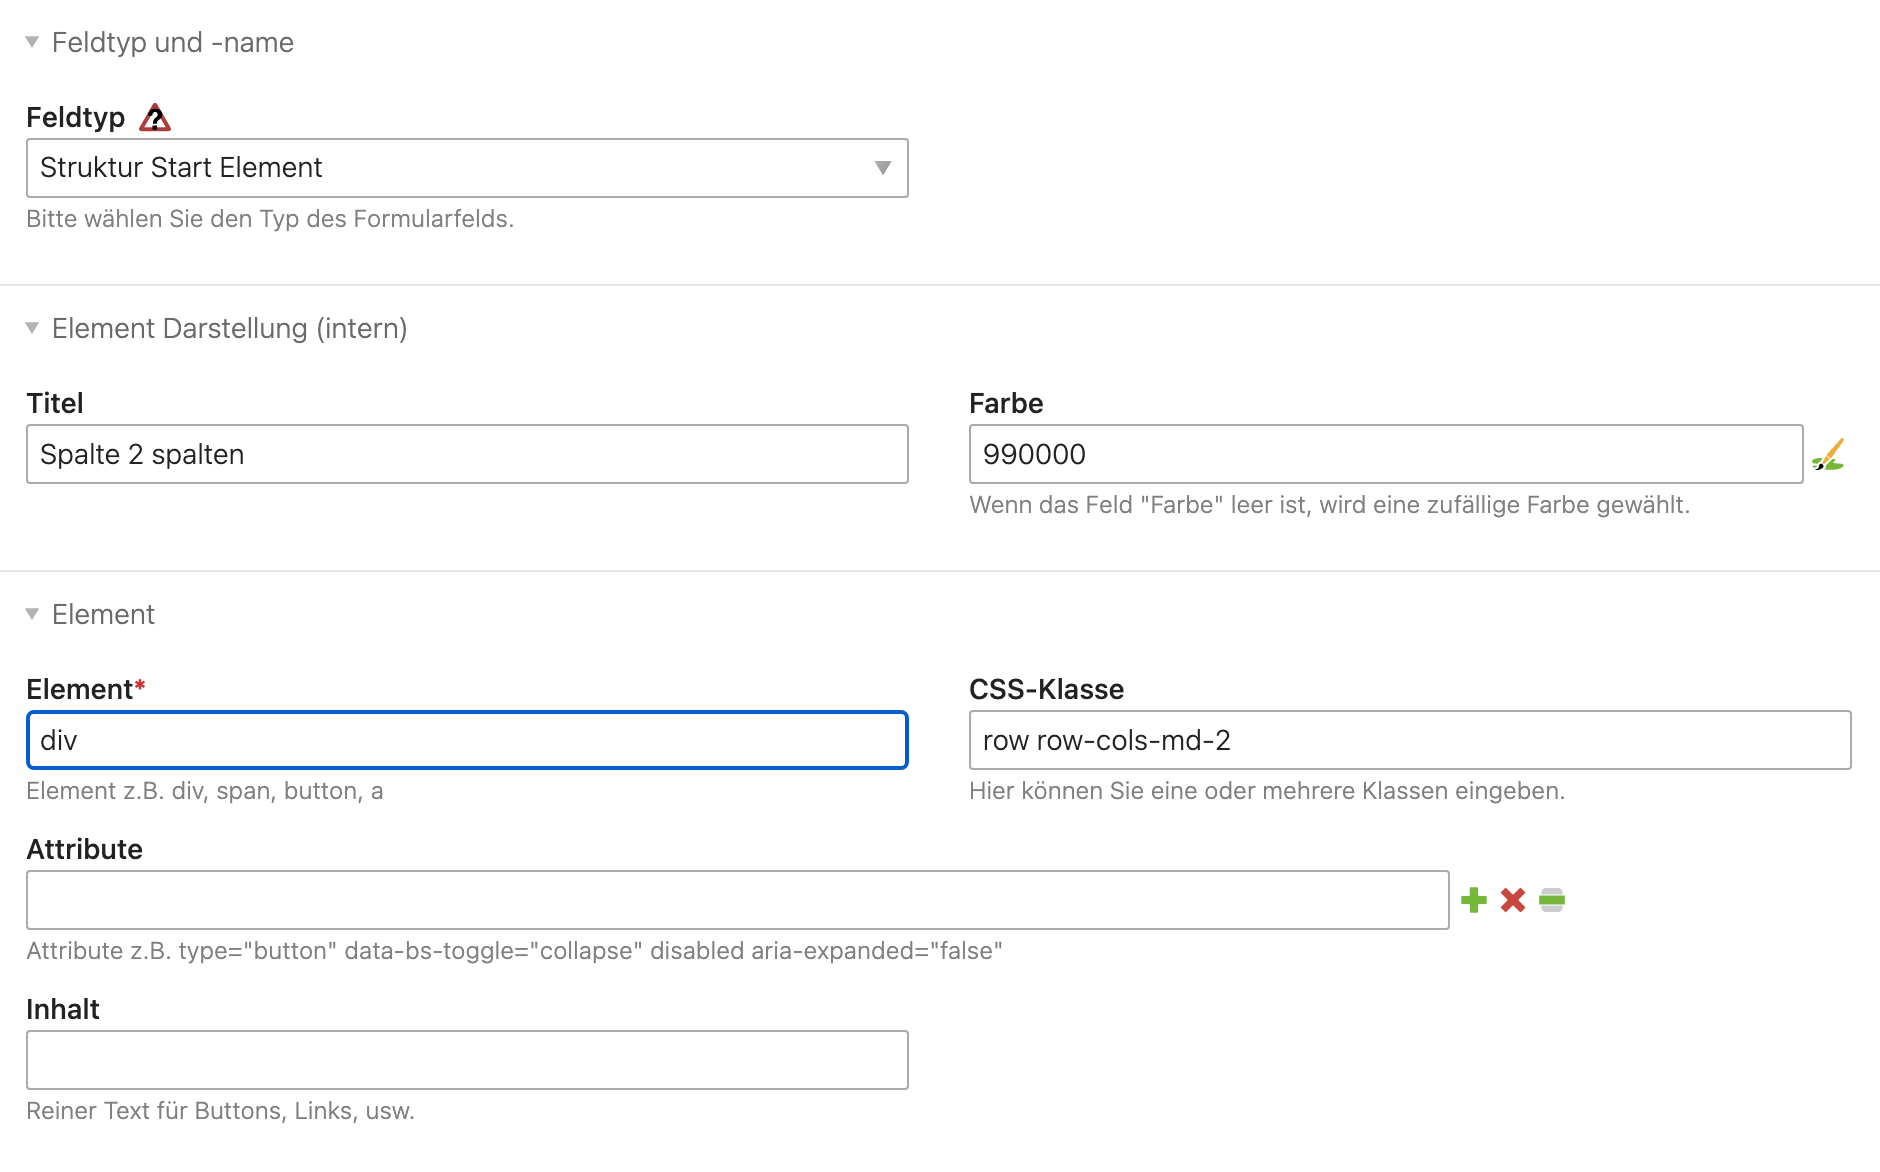
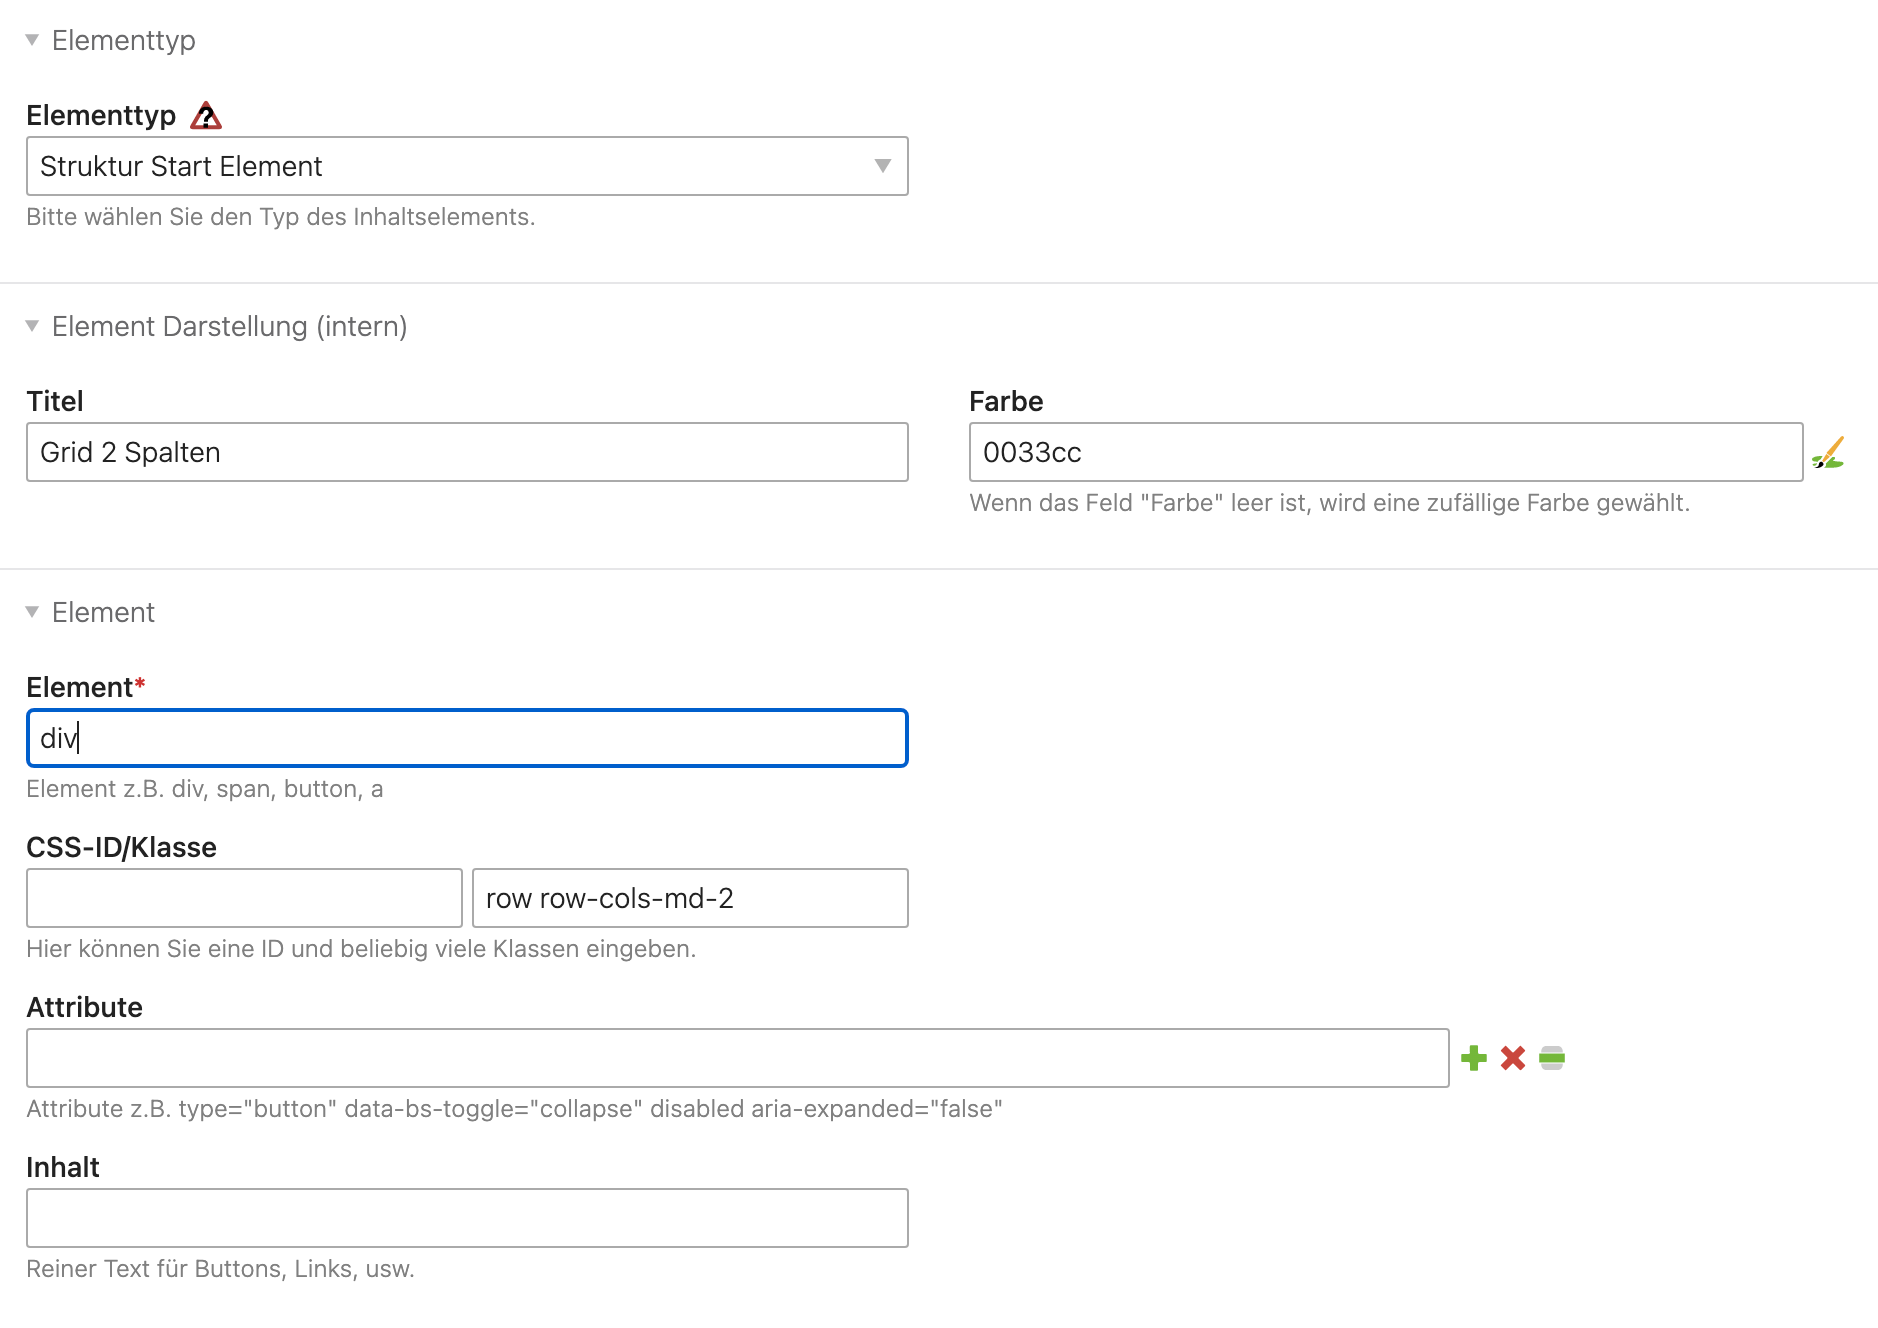
update readme

diff --git a/README.md b/README.md
@@ -3,13 +3,17 @@ This bundle is still under construction.
 
 Struktur Element für Contao erstellt jeweils ein Start und ein Stop Element als Inhaltselement oder als Formularlelement. Es kann ein HTML-Element mit ID, Klasse, Attribute definiert werden.
 
-Beim erstellen und speichern vom Start Element wird automatisch das Stop Element generiert und verknüpft. Die Elemente können dann unabhängig voneinander verschoben werden. Wird eine Element (Artikel, Seite, Formular) kopiert werden die Elemente neu verknüpft. Wird ein Element gelöscht wird das dazugehörige Element ebenfalls gelöscht.
+Beim erstellen und speichern vom Start Element wird automatisch das Stop Element generiert und verknüpft. Die Elemente können dann unabhängig voneinander verschoben werden. 
+Wird eine Element (Artikel, Seite, Formular) kopiert, werden die Elemente neu verknüpft. Wird ein Element gelöscht wird das dazugehörige Element ebenfalls gelöscht.
 
 Die Erweiterung eignet sich zum abbilden von Strukturen einer Webseite wie Grid, Button oder ähnliches.
 
 ### Eingabemaske
-
 ![Alt text](docs/structure_start.png?raw=true "struture element start")
+
+### Contao Backend
+![Alt text](docs/structure_start_grid.png?raw=true "struture element grid")
+
 
 ### Beispiel Offcanvas (Bootstrap 5)
 ![Alt text](docs/offcanvas.png?raw=true "offcanvas")
